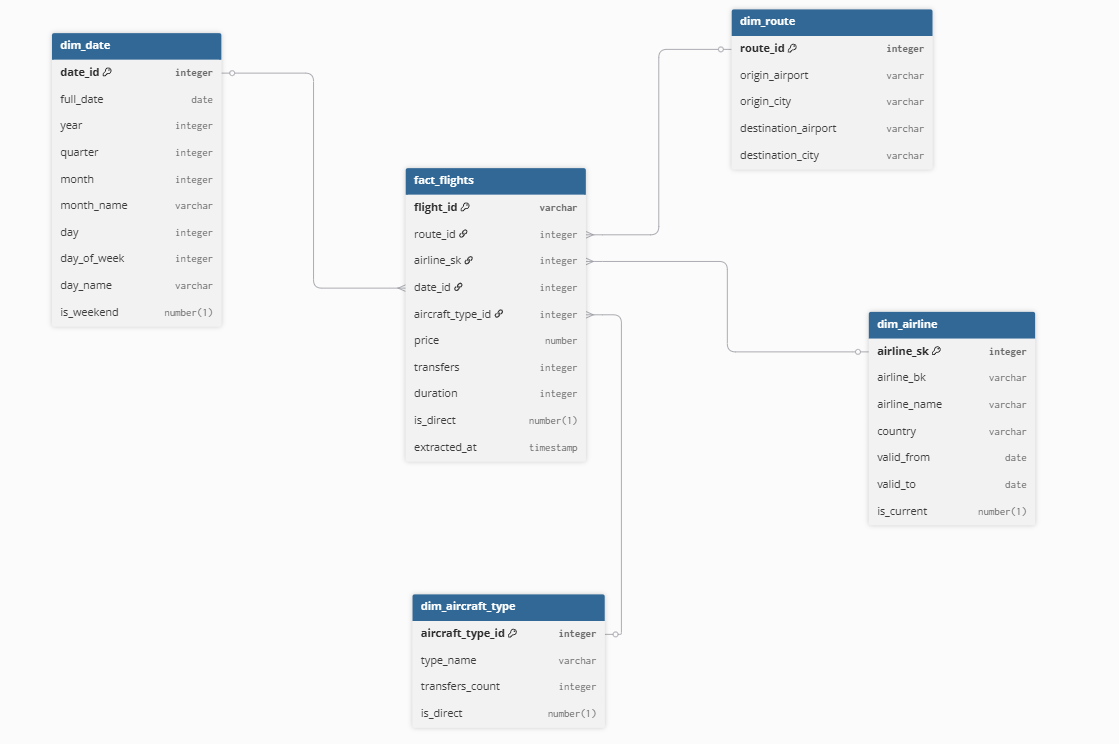
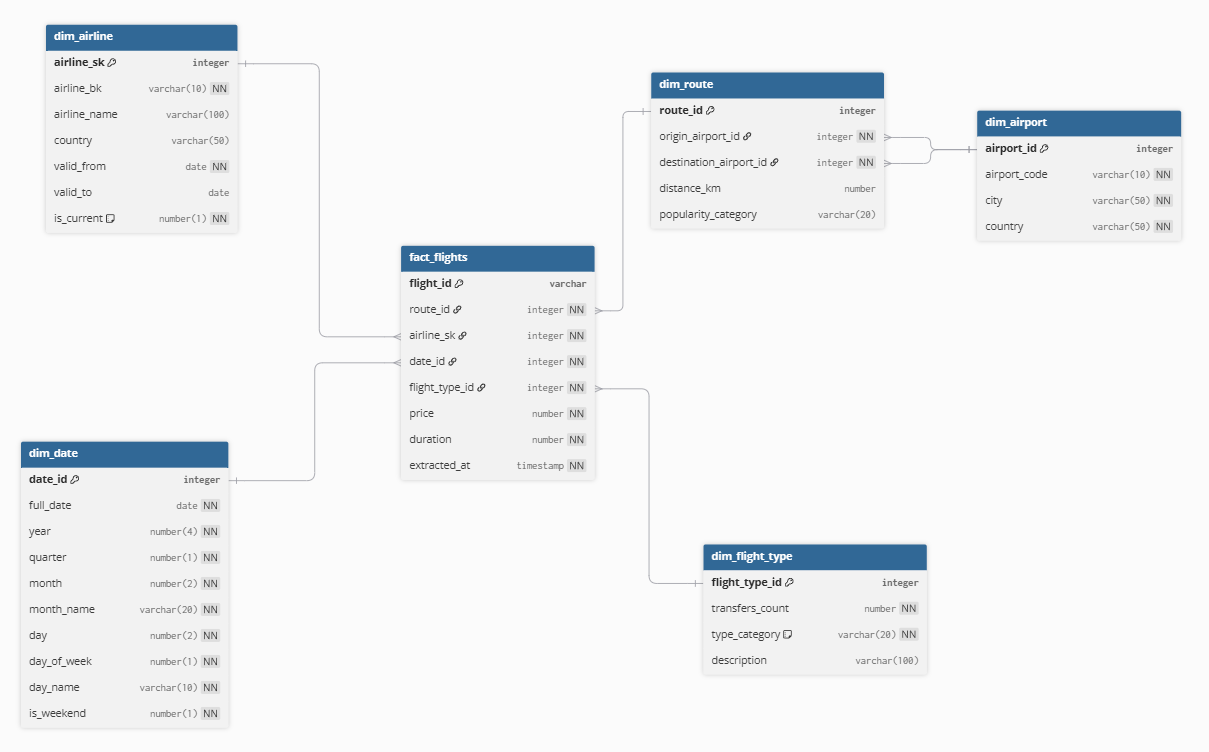
update Readme

diff --git a/Readme.md b/Readme.md
@@ -201,19 +201,19 @@ Redis не умеет выполнять поиск по условиям тип
 
 ## Этапы выполнения:
 
-- [ ] Определить структуру хранилища: схема "звезда" или "снежинка". Привести данные к 3НФ. 
+- [x] Определить структуру хранилища: схема "звезда" или "снежинка". Привести данные к 3НФ. 
   - Пример сущностей для DDS: 
     - Факты: продажи, комментарии, активность пользователей, 
     - Измерения: товары, пользователи, даты, категории;
   - В некоторых источниках данных может возникнуть проблема с выбором подходящей сущности для фактов. При возникновении такой ситуации достаточно нормализовать данные. 
-- [ ] Создать новые DAG в Airflow для трансформации данных:
+- [x] Создать новые DAG в Airflow для трансформации данных:
   - DDS-слой: Скрипты очистки (удаление дубликатов, приведение типов), обогащение, агрегация; 
-- [ ] Где возможно, сущности должны соответствовать концепции медленно изменяющихся измерений (SCD), чтобы изменения значений атрибутов 
+- [x] Где возможно, сущности должны соответствовать концепции медленно изменяющихся измерений (SCD), чтобы изменения значений атрибутов 
 сущностей могли отслеживаться во времени; 
-- [ ] Построение зависимостей между ETL-процессами. Процессы детального слоя должны ожидать завершения соответствующих расчетов исходных данных. 
+- [x] Построение зависимостей между ETL-процессами. Процессы детального слоя должны ожидать завершения соответствующих расчетов исходных данных. 
 Для реализации зависимостей возможно использовать сенсоры (https://airflow.apache.org/docs/apache-airflow/stable/core-concepts/sensors.html). 
 Альтернативные варианты приветствуются. 
-- [ ] Data Quality: реализовать DAG для проверки качества данных. 
+- [x] Data Quality: реализовать DAG для проверки качества данных. 
   - Примеры возможных проверок:
     - Сравнить объемы данных до/после трансформации, 
     - Проверить отсутствие аномальных значений в атрибутах.  
@@ -240,23 +240,29 @@ ticket_id, origin, destination, departure_at, price, airline, transfers, duratio
 1. В схеме «Звезда» факт-таблица напрямую связана с измерениями, без промежуточных таблиц. Это упрощает SQL-запросы и повышает производительность при агрегации (например, «средняя цена билета по направлениям»).
 2. Данные о рейсах имеют чёткую структуру «событие -> атрибуты»: каждый факт — это конкретный найденный билет, а атрибуты — маршрут, авиакомпания, дата, цена. Это хорошо ложится на данный тип модели.
 
-Наша «Звезда» состоит из:
-- Одной факт-таблицы: fact_flights — события (найденные билеты),
-- Четырёх измерений:
-  - dim_route — маршрут (origin/destination)
-  - dim_airline — авиакомпания
-  - dim_airport — справочник аэропортов
-  - dim_date — календарная дата
-  - dim_flight_type — тип перелёта (прямой/с пересадками).
+Наша аналитическая модель представляет собой классическую схему «звезда», где центральной является факт-таблица `fact_flights`, 
+содержащая количественные метрики (цена, длительность) и внешние ключи на измерения.
 
+Измерения (`dim_date`, `dim_airline`, `dim_route`, `dim_flight_type`) хранят описательные атрибуты, нормализованные до 3НФ. 
+Особенностью архитектуры является разделение логики маршрута и справочника аэропортов: таблица `dim_route` не дублирует названия городов, 
+а содержит только ссылки на `dim_airport` через `origin_airport_id` и `destination_airport_id`. Названия городов 
+(`origin_city`, `destination_city`) извлекаются динамически при выполнении запроса путём двойного `JOIN` с `dim_airport`. 
+Такой подход полностью соответствует третьей нормальной форме и исключает избыточность данных.
+
+Ключевым элементом является реализация SCD 2 в `dim_airline`, что позволяет отслеживать историю изменений названий 
+авиакомпаний во времени, обеспечивая корректность ретроспективного анализа.
+
+Эта структура оптимизирована для быстрой агрегации и анализа данных, таких как «средняя цена по направлениям» или «распределение перелётов по типам», при этом сохраняя целостность и минимизируя избыточность.
 ### Нормализация до 3НФ
 
-- 1НФ: все атрибуты атомарны (например, departure_at разделён на date_id и временные компоненты в dim_date)
+- 1НФ: все атрибуты атомарны (например, `departure_at` разделён на `date_id` и временные компоненты в `dim_date`)
 - 2НФ: устранены частичные зависимости (все атрибуты зависят от полного первичного ключа)
-- 3НФ: устранены транзитивные зависимости (например, в dim_date — date_id -> full_date -> year/month -> разнесено в отдельные столбцы, зависящие только от date_id).
+- 3НФ: устранены транзитивные зависимости (например, в `dim_date` — `date_id` -> `full_date` -> `year/month` -> разнесено в отдельные столбцы, зависящие только от `date_id`).
 
-Например, в dim_airline информация об авиакомпании хранится в одном месте (устранено дублирование из cheap_tickets), 
-в dim_route маршрут кодируется один раз, а не повторяется в каждой записи.
+Например, в `dim_airline` информация об авиакомпании хранится в одном месте (устранено дублирование из `cheap_tickets`), 
+а в `dim_route` маршрут кодируется один раз, а не повторяется в каждой записи. Более того, благодаря вынесению городов в 
+отдельную таблицу `dim_airport`, даже при наличии нескольких аэропортов в одном городе (например, MOW, VKO, DME в Москве) 
+не возникает дублирования географической информации.
 
 ### Реализация ETL-процессов
 
